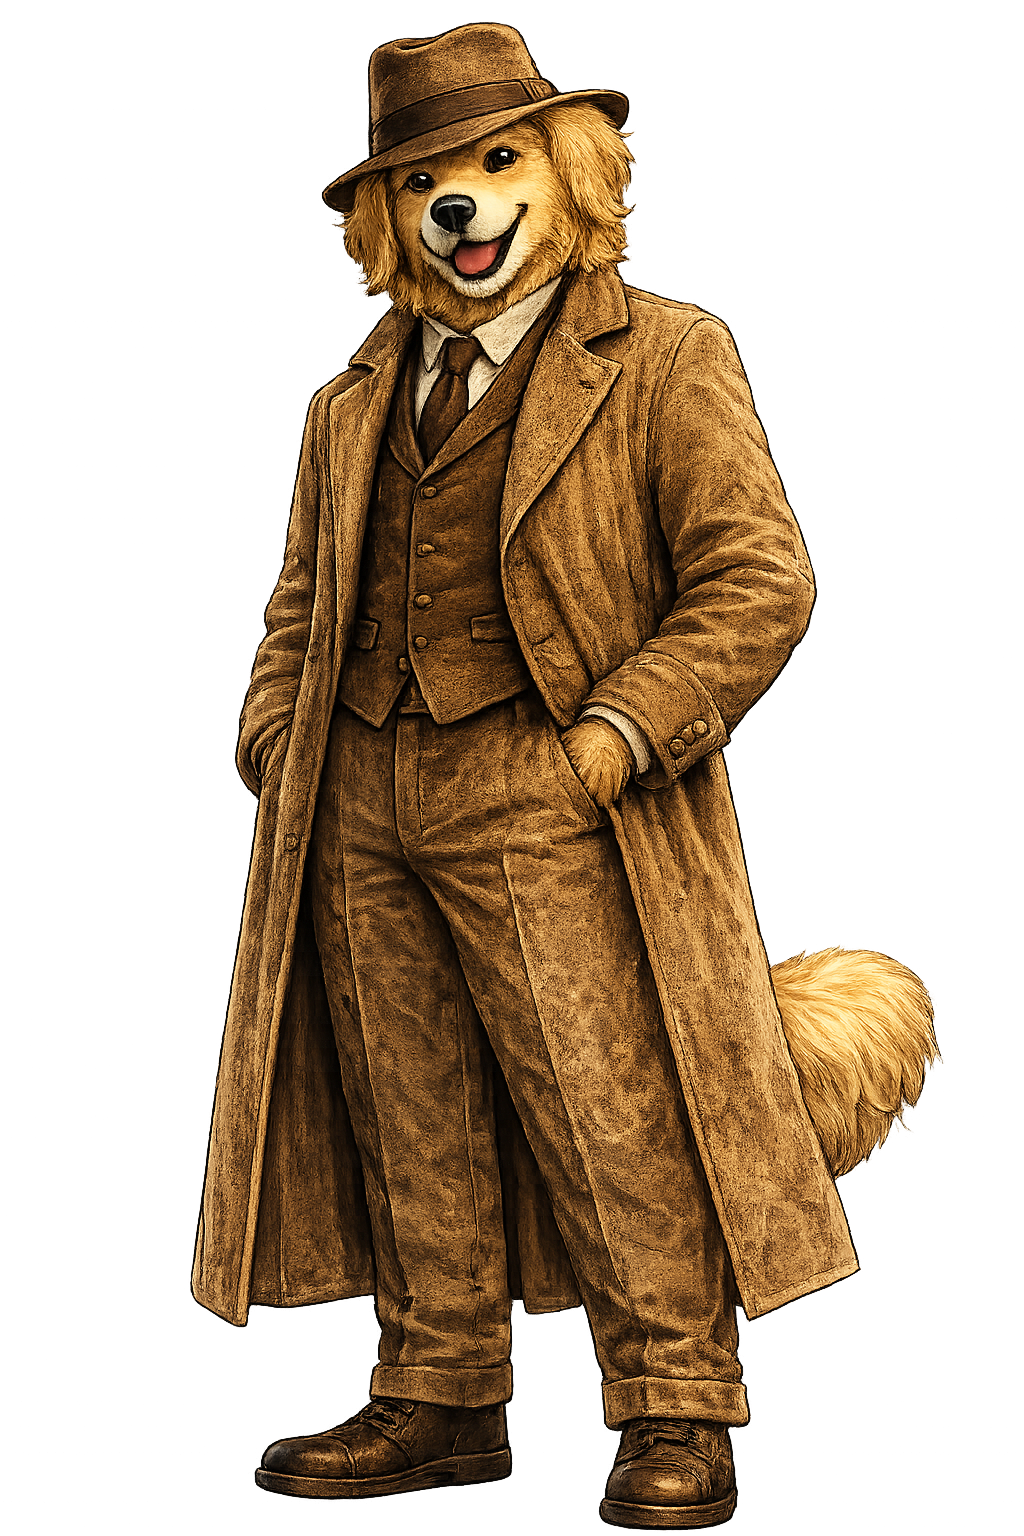
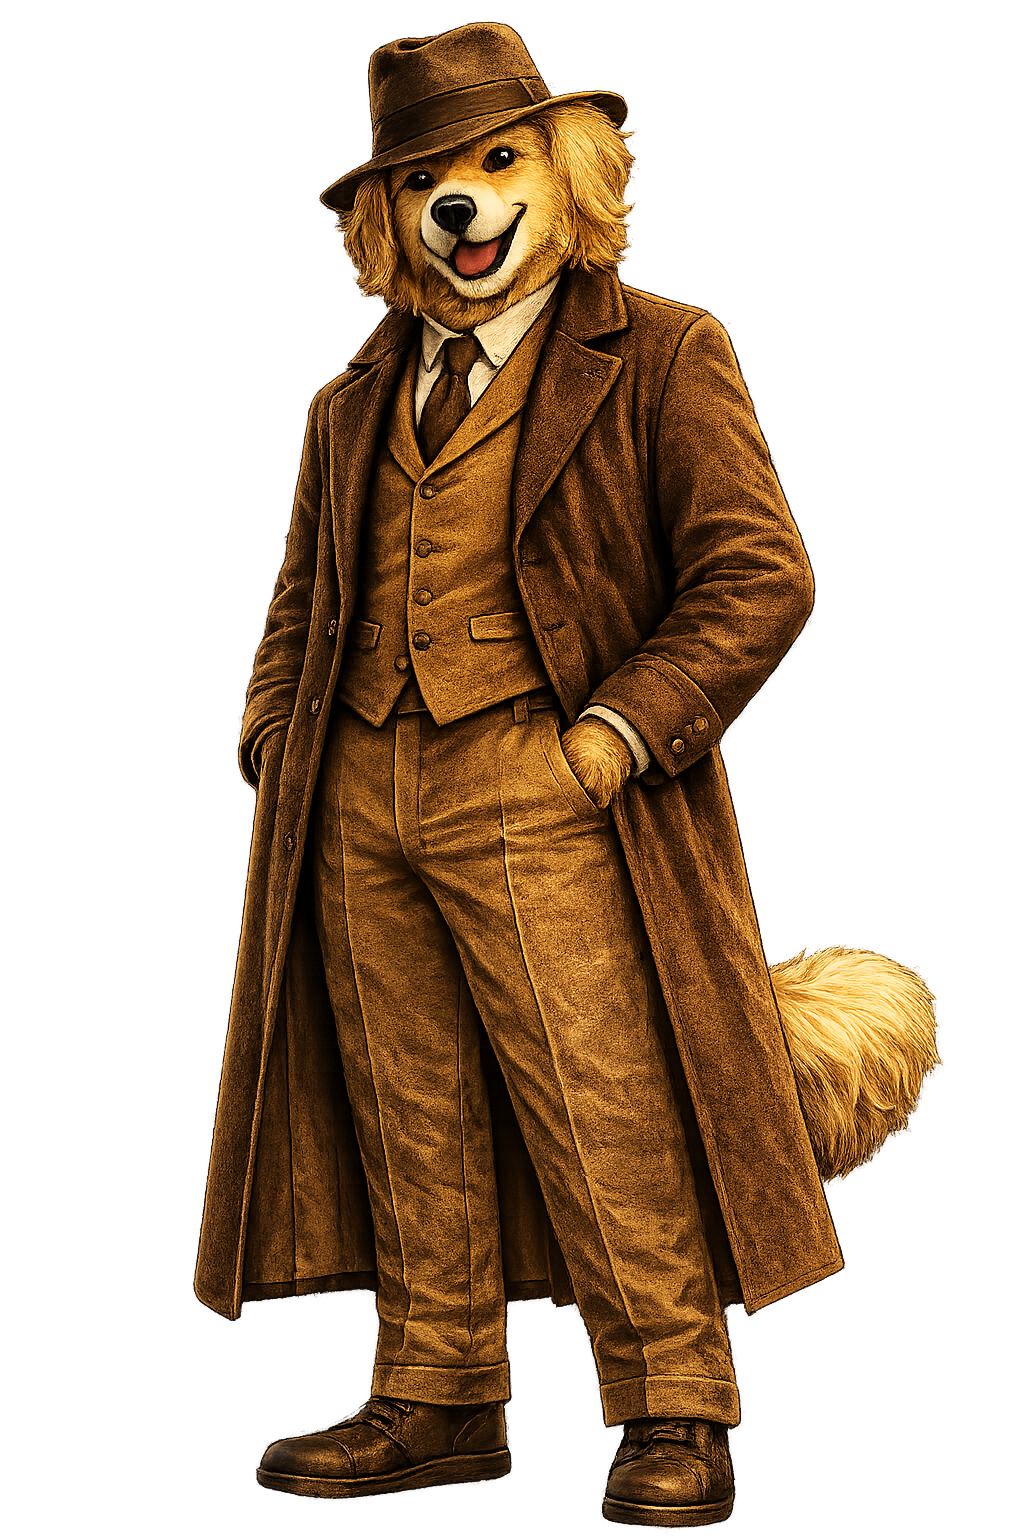
tavily to supabase filters

Changed region(s): [[0.1875, 0.0, 0.9375, 1.0]]

diff --git a/server.js b/server.js
@@ -429,6 +429,25 @@ function cleanTavilyContent(text) {
     .slice(0, 260)
 }
 
+function getSourceQualityScore(url = "") {
+  const site = String(url).toLowerCase()
+
+  if (site.includes("fraserhealth.ca")) return 100
+  if (site.includes("vch.ca")) return 95
+  if (site.includes("gov.bc.ca")) return 95
+  if (site.includes("interiorhealth.ca")) return 92
+  if (site.includes("islandhealth.ca")) return 92
+  if (site.includes("northernhealth.ca")) return 92
+  if (site.includes("phsa.ca")) return 90
+  if (site.includes("foundrybc.ca")) return 88
+  if (site.includes("bc211.ca")) return 85
+  if (site.includes("towardtheheart.com")) return 85
+  if (site.includes("cmha.bc.ca")) return 82
+  if (site.includes("heretohelp.bc.ca")) return 80
+
+  return 40
+}
+
 function scoreResource(resource, query) {
   const search = normalizeText(query)
 
@@ -1264,6 +1283,7 @@ serviceType:
   "External Resource",
 
   source: "tavily",
+  qualityScore: getSourceQualityScore(result.url),
   approved: false,
 }))
 
@@ -1273,19 +1293,47 @@ if (formattedTavilyResults.length > 0) {
       "Formatted Tavily Results:",
       formattedTavilyResults
     )
-const existingWebsites = new Set()
 
-const uniqueTavilyResults =
-  formattedTavilyResults.filter((resource) => {
-    const site = resource.website
+ const existingWebsites = new Set()
 
-    if (!site || existingWebsites.has(site)) {
-      return false
-    }
+const uniqueTavilyResults = []
 
-    existingWebsites.add(site)
-    return true
-  })
+for (const resource of formattedTavilyResults) {
+  const site = String(resource.website || "").trim()
+
+  if (!site) {
+    continue
+  }
+
+  if (existingWebsites.has(site)) {
+    continue
+  }
+
+  const descriptionLength =
+    String(resource.description || "").length
+
+  if (descriptionLength < 70) {
+    continue
+  }
+
+  if ((resource.qualityScore || 0) < 70) {
+  continue
+}
+
+  const { data: existingMatch } = await supabase
+    .from("tavily_resources")
+    .select("id")
+    .eq("website", site)
+    .limit(1)
+
+  if (existingMatch && existingMatch.length > 0) {
+    continue
+  }
+
+  existingWebsites.add(site)
+
+  uniqueTavilyResults.push(resource)
+}   
 
 const {
   data: insertedData,
@@ -1302,6 +1350,9 @@ const {
       category: resource.category,
       service_type: resource.serviceType,
       source: resource.source,
+      
+      quality_score: resource.qualityScore || 40,
+      
       approved: false,
       original_query: safeQuery,
     }))

diff --git a/src/App.jsx b/src/App.jsx
@@ -1038,9 +1038,26 @@ setConversationMemory(updatedMemory)
         candidatePack.inferredCategories
       )
 
-      const mergedResults = uniqueResourceObjects([
+      const localNames = new Set(
+  rankedPool.map((resource) =>
+    normalizeText(resource.name)
+  )
+)
+
+const preferredTavilyResults =
+  filteredTavilyResults.filter((resource) => {
+    const tavilyName =
+      normalizeText(resource.name)
+
+    return !Array.from(localNames).some((localName) =>
+      localName.includes(tavilyName) ||
+      tavilyName.includes(localName)
+    )
+  })
+
+const mergedResults = uniqueResourceObjects([
   ...rankedPool,
-  ...filteredTavilyResults,
+  ...preferredTavilyResults,
 ])
 
 const rerankedResults = sortResources(